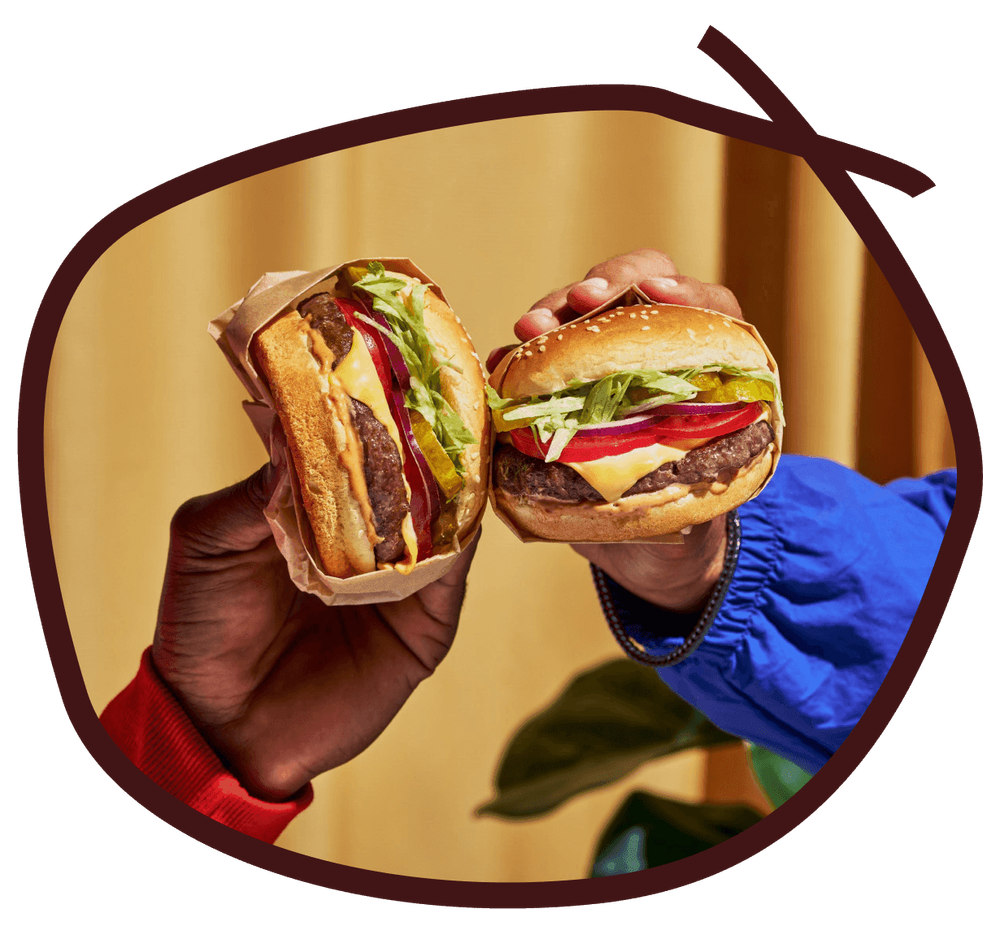
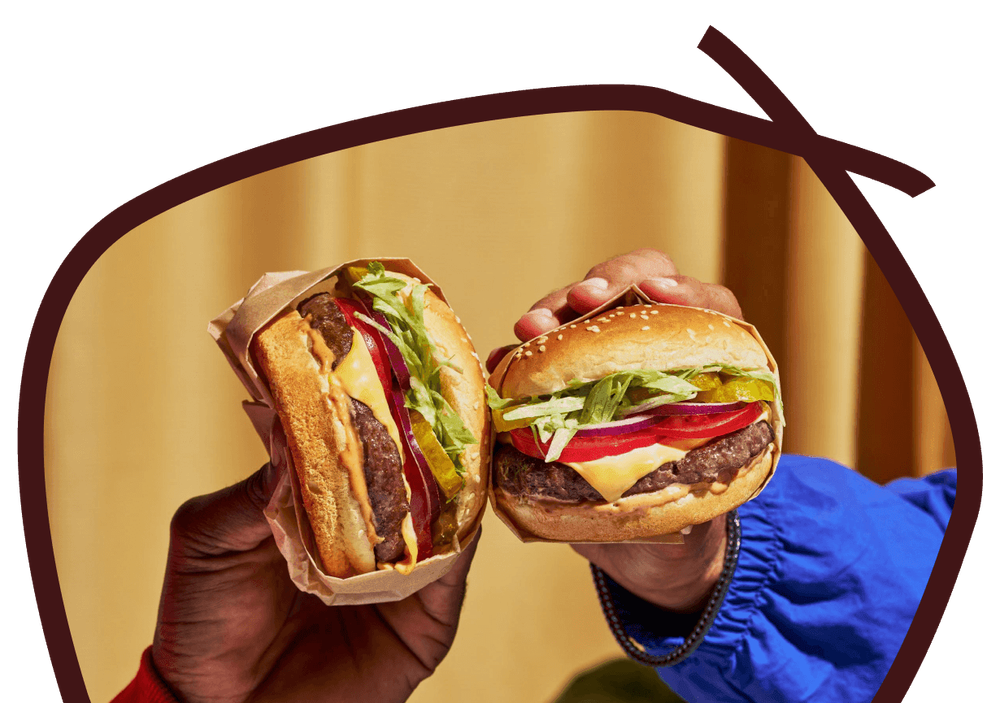
yeye

diff --git a/src/components/Navbar.tsx b/src/components/Navbar.tsx
@@ -1,7 +1,8 @@
 "use client";
 
 import Link from "next/link";
-import { useState } from "react";
+import { useState, useEffect } from "react";
+import { usePathname } from "next/navigation";
 
 interface NavbarProps {
   variant?: 'default' | 'partner';
@@ -10,6 +11,12 @@ interface NavbarProps {
 export default function Navbar({ variant = 'default' }: NavbarProps) {
   const isPartner = variant === 'partner';
   const [menuOpen, setMenuOpen] = useState(false);
+  const pathname = usePathname();
+
+  // Close menu when pathname changes (after navigation completes)
+  useEffect(() => {
+    setMenuOpen(false);
+  }, [pathname]);
 
   return (
     <>
@@ -118,27 +125,27 @@ export default function Navbar({ variant = 'default' }: NavbarProps) {
           menuOpen ? 'opacity-100 pointer-events-auto' : 'opacity-0 pointer-events-none'
         }`}
       >
-        <nav className="flex flex-col items-center gap-6">
+        <nav className="flex flex-col items-center gap-2">
           <Link
             href="/"
-            onClick={() => setMenuOpen(false)}
-            className="text-6xl font-ultrabold text-violet uppercase"
+            className="font-ultrabold text-violet uppercase"
+            style={{ fontSize: 50 }}
           >
             Home
           </Link>
           <Link
             href="/partner"
-            onClick={() => setMenuOpen(false)}
-            className="text-6xl font-ultrabold text-violet uppercase"
+            className="font-ultrabold text-violet uppercase"
+            style={{ fontSize: 50 }}
           >
             Partner
           </Link>
           <Link
             href="/waitlist"
-            onClick={() => setMenuOpen(false)}
-            className="text-6xl font-ultrabold text-violet uppercase"
+            className="font-ultrabold text-violet uppercase"
+            style={{ fontSize: 50 }}
           >
-            Join Waitlist
+          Waitlist
           </Link>
         </nav>
       </div>

diff --git a/src/components/Partner.tsx b/src/components/Partner.tsx
@@ -3,7 +3,7 @@ import partner from "@/app/assets/images/partner.png";
 
 export default function Partner() {
   return (
-    <section className="py-32 px-4 sm:px-6 lg:px-8 bg-[#181818]">
+    <section className="pt-32 px-4 sm:px-6 lg:px-8 bg-[#181818]">
       <div className="max-w-7xl mx-auto text-center">
         <h2 className="text-7xl  md:text-9xl font-ultrabold text-white mb-6 uppercase">
           Become a <br /> Partner
@@ -16,11 +16,11 @@ export default function Partner() {
         <button className="bg-scarlett-red text-[#FFFBF0] px-12 py-4 text-xl font-ultrabold uppercase hover:bg-opacity-90 rounded-full transition-all duration-300 mb-12">
           Explore
         </button>
-        <div className="flex justify-center mt-12">
+        <div className="flex justify-center items-end mt-12">
           <Image
             src={partner}
             alt="Partner"
-            className="w-full max-w-4xl h-auto"
+            className="w-full max-w-3xl h-auto"
           />
         </div>
       </div>

diff --git a/src/components/PartnerHero.tsx b/src/components/PartnerHero.tsx
@@ -16,7 +16,7 @@ export default function PartnerHero() {
         <div className="absolute inset-0 bg-black/50" />
 
         {/* Text Content - Bottom Left */}
-        <div className="absolute bottom-20 left-4 md:bottom-32 md:left-12 lg:left-20 max-w-2xl">
+        <div className="absolute bottom-20 left-4 md:bottom-32 md:left-12 lg:left-20 text-center md:text-left max-w-2xl">
           <h1 className="text-4xl md:text-6xl lg:text-7xl font-ultrabold text-white uppercase leading-none mb-4">
             Become a Partner and Grow Your Business
           </h1>

diff --git a/src/components/PartnerFeatures.tsx b/src/components/PartnerFeatures.tsx
@@ -54,7 +54,7 @@ export default function PartnerFeatures() {
 
               <div className="max-w-xs md:max-w-[250px]">
                 {/* Title */}
-                <h3 className="text-lg md:text-xl font-bold text-[#3D1518] mb-3 text-left md:text-center">
+                <h3 className="text-lg md:text-xl font-bold text-black mb-3 text-left md:text-center">
                   {feature.title}
                 </h3>
 
